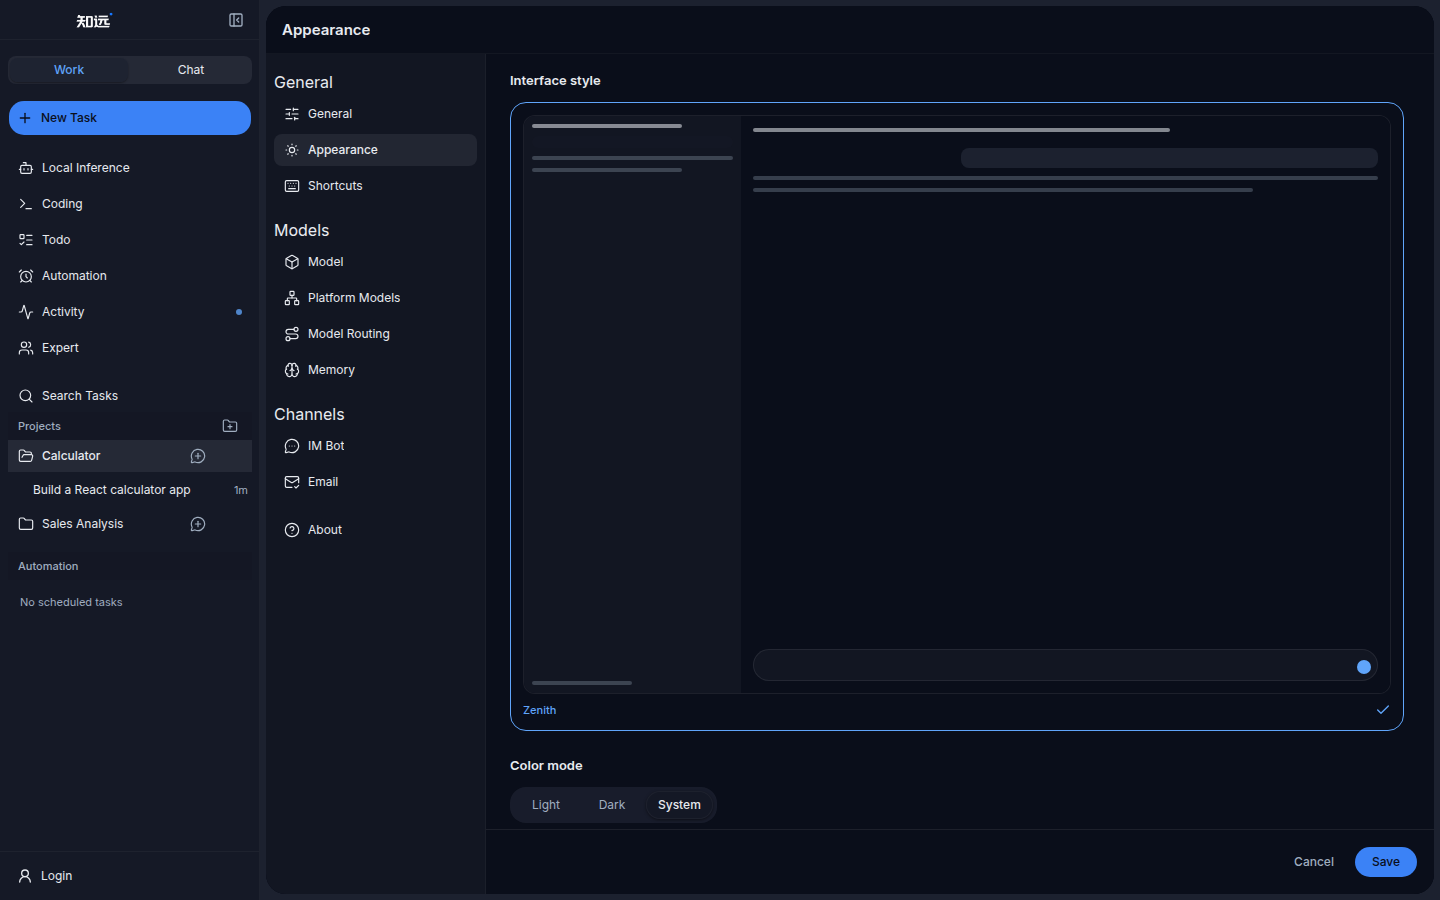
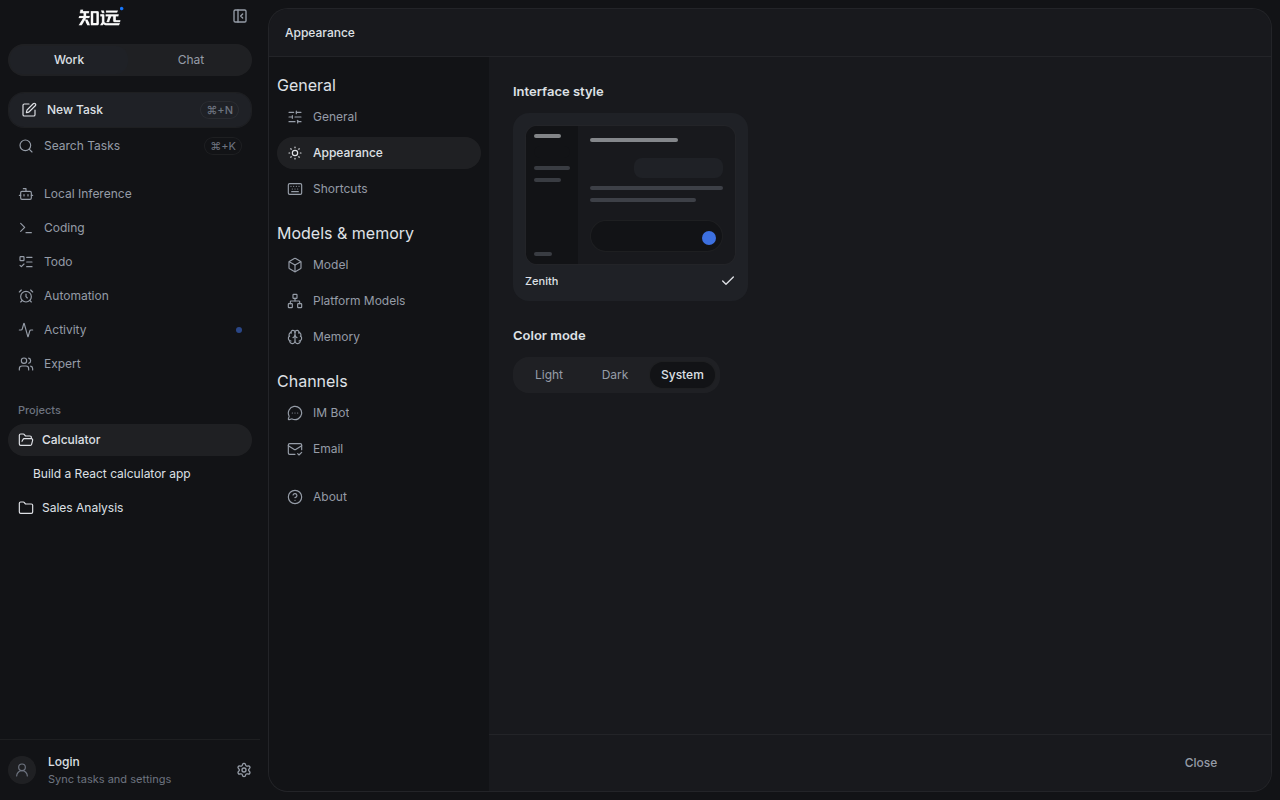
fix(docs): refresh screenshots and align technical documentation (#1304)

diff --git a/src/renderer/theme/README.md b/src/renderer/theme/README.md
@@ -1,6 +1,6 @@
 # Theme plugins
 
-The desktop theme is presentation data. App routes, React state, focus, IPC and persistence remain owned by existing components and services. `theme` selects light/dark/system; the optional `themeStyle` config property selects a registered style, falling back to `codex` if it is unavailable.
+The desktop theme is presentation data. App routes, React state, focus, IPC and persistence remain owned by existing components and services. `theme` selects light/dark/system; the optional `themeStyle` config property selects a registered style, falling back to `zenith` (`DEFAULT_THEME_PLUGIN_ID`) when the saved id is missing or removed.
 
 ## Add a style
 
@@ -132,46 +132,6 @@ Tabs list surfaces, trigger dimensions, typography, states, icon sizing and line
 
 The source inventories are heuristics, not a substitute for rendered verification. Remaining parent-fill dimensions, flex shrink resets, popup viewport bounds and indicator layout coordinates express relationships and stay in shared code. Theme data does not control events, focus order, hit testing, DOM structure or persistence.
 
+### Bundled Zenith plugin
 
-### 大明风华
-
-`themes/daming.ts` 注册纸白和墨夜两种外观。以纸白、朱红和墨色组织主界面，玉色、古铜色与青灰色承担状态和分类。仅页面标题使用本机宋体字体栈，正文与操作控件保持系统无衬线。主画布使用包内静态纸纹；墨夜不启用纸纹。背景、颜色和形状均属于主题定义，不提供独立设置。
-
-共享的 FluidTabs、Checkbox、Slider、Progress、Switch、RadioGroup 和 Toggle 通过固定 `theme-*` hooks 消费组件 recipe；页面标题使用 `theme-heading`。拖动位置、进度值和选中状态仍归共享组件管理。新增主题不能替换组件实现或引入业务判断。
-
-
-开关尺寸使用 `style-switch-*` 变量，组件通过元素测量和主题属性观察同步 Motion 坐标；`style-work-chat-thumb` 与 `primary-foreground` 独立。Codex 保留原尺寸与白色滑块，大明风华使用方圆形状。FluidTabs 的指示块跟随实际标签矩形，过渡曲线在 recipe 中定义。
-
-
-#### 覆盖与验收（2026-09-06）
-
-基础控件、展示控件、表单、通知、共享侧栏及业务组合外观均通过固定 hook 消费包内 recipe。`classic-scenes.ts` 管理问答选项、技能/专家头像框、表格与骨架屏等组合；头像图片和第三方品牌内容仍保持原样。旧局部覆盖已从调用点移到包内，交互状态与页面布局继续由共享组件管理。
-
-| 验收范围 | 结果与证据 |
-| --- | --- |
-| 四种外观往返切换 | 真实 React 控件浏览器夹具验证 Codex 浅/深、大明风华浅/深及切回；原节点、选择状态保留。 |
-| 开关、分段选项与选择控件 | 开关默认 34×20px；主题改为 44×26px、20px 滑块后测量同步；立即拖动、键盘、只读、禁用通过。指示块与标签矩形差小于 1px。 |
-| 展示、表单与组合 | 表格选中/悬停、末行边框、头像尺寸、字段禁用/错误去重/整卡选中、问答选项、本地访问开关、通知圆角、滚动区键盘焦点通过。 |
-| 共享侧栏 | 空/字符串 data-active 均识别；选中字重 500，常规/大号高度 32/48px，折叠恢复为 32×32px，操作按钮显隐正确。 |
-| 动效 | Spinner、Skeleton 和会话扫光由包内隔离 keyframe 提供；减少动态效果时停用。扫光渐变可定制，远程 URL 仍被契约拒绝。 |
-| 色板完整性 | 语义侧栏、图表、旧 amber/yellow/red 映射到包内角色；正文、次要文字、主要按钮、成功/警告/危险文字的指定表面对比度测试通过。 |
-| 实机页面 | 最新生产构建通过 Computer Use 检查纸白/墨夜模型市场、设置、搜索、会话，以及纸白专家、技能、自动化空状态和创建表单。 |
-| 实机功能 | 保存大明风华后免费模型回复 DAMINGOK；搜索 Return 跳转成功；已有草稿在保存切回 Codex 后保持原文。启动读取已保存的大明风华墨夜成功。 |
-| 自动检查 | Renderer/shared 176 个测试文件、886 项测试通过；lint、主题生成一致性/样式审计、TypeScript、生产构建和体积预算通过。启动图 1.60 MiB。 |
-
-扩展 JSX 控件调用点和交互表面审计均无剩余命中，但这些清单属于启发式证据。实机验收覆盖上表场景，不代表执行过所有 IPC、模型安装、外部渠道或导出格式。主题不修改这些业务流程；OS 原生窗口、用户文档、第三方预览与品牌原图不在重着色范围内。
-
-
-### 长安风物
-
-`themes/changan.ts` 提供绢白与夜阑两套外观，复用共享交互与完整组件 recipe。主操作使用孔雀青，辅助色为古金、玉色与赭红；卡片、弹层及输入区使用更圆润的轮廓，普通开关保持胶囊形。字号和操作尺寸保留共享基线。
-
-背景使用 `BackgroundTexture.Silk` 的静态经纬线绘制，浅色透明度 0.045、深色 0.025。它复用背景图层，不引入图片请求、动画或独立用户设置。预览卡片通过同一背景定义绘制，跟随当前明暗模式。新增包无需添加设置页业务分支。
-
-验收记录：Renderer/shared 177 个测试文件、891 项测试通过；lint、主题生成一致性、样式审计、生产构建和体积预算通过，启动图 1.61 MiB。真实 React 控件夹具验证六种外观往返切换、选择状态、开关尺寸与滑块对比度、组合边框、键盘焦点和减少动态效果。Computer Use 在隔离配置的 Electron 生产构建中检查三套主题预览、长安风物浅/深外观、保存后主界面、搜索弹层及结果跳转、已有会话内容。此次未重新执行模型安装或外部渠道流程。
-
-### 未央金石
-
-`themes/weiyang.ts` 注册玄金与石白两套完整外观，采用古金主操作、方中带圆的控件与宋体标题。`BackgroundTexture.Clouds` 是引擎提供的固定静态 SVG 云气纹，仅以主题定义的颜色和透明度绘制，不接受外部 SVG 或脚本。右上、左下两角延展，中央保留阅读留白，主画布与主题预览复用同一背景定义。
-
-验收记录：178 个 Renderer/shared 测试文件、895 项测试通过；lint、生成一致性、样式审计、生产构建与体积预算通过，启动图 1.61 MiB。Playwright 真实组件夹具验证八种外观往返切换、草稿与选择状态保留、开关拖动/键盘、组合边框、浮层和减少动态效果；外观设置验证四套预览、跟随系统、显式模式优先以及 390px 窄屏无横向溢出。Computer Use 在隔离 Electron 生产构建中检查玄金/石白主界面与模型市场、量化下拉浮层、保存主题后草稿保留，重新加载后外观设置保持。此次不包含模型安装、外部渠道或跨平台实机验收。
+`themes/plugins.ts` registers a single plugin, `zenith`, with `zenith-light` and `zenith-dark` appearances. Visual rules follow [DESIGN.md](../../../DESIGN.md) v4.0 Quiet Studio. Removed legacy theme ids resolve to Zenith through `resolveThemePlugin()`. Appearance settings screenshots live under `docs/theme-previews/`; regenerate with `bun run preview:doc-screenshots` after UI changes.

diff --git a/AGENTS.md b/AGENTS.md
@@ -14,6 +14,7 @@
 bun run electron:dev       # Vite + Electron 热重载（端口 5175 起自增）
 bun run web:preview        # 浏览器预览（端口 5176，无需 Electron）
 bun run web:preview:check  # 浅色/深色走查主要界面，console error 即失败
+bun run preview:doc-screenshots  # 1280×800 文档截图到 docs/theme-previews/
 bun run build              # 生产构建（TS + Vite）
 bun run lint               # oxlint，含 theme:check / theme:audit
 bun run format             # oxfmt；提交前 bun run format:check
@@ -35,7 +36,7 @@ bun run rebuild:electron-native   # 原生模块依赖变更后
 - 会话、流式回复、设置、Skills、MCP、自动化、本地推理和 IM 的数据在 `browserMock/interactive.ts` 与 `browserMock/fixtures/`。改了 preload 契约后跑 `bun run web:preview:codegen`，并提交 `src/renderer/browserMock/generated/`。`bun run web:preview:codegen:check` 会在生成结果过期时失败。
 - `bun run web:preview:check`（先 `bunx playwright install chromium`）在 headless Chromium 中跑 Playwright 交互测试与 warn-only 的 axe 抽检；mock 仍支持 URL 参数 `previewScenario` / `previewEdition` / `previewSkipBoot` 供本地走查。`console.error` 与 `pageerror` 会让检查失败。Preload 契约：`bun run web:preview:contract`；生成面校验：`bun run web:preview:codegen:check`。这些检查由发布前 `release-preflight.yml` 的 `browser-preview` job 统一执行，日常 PR 不自动启动浏览器。
 
-Node >=24 <25，Bun >=1.3。包管理与脚本一律用 Bun（`bun install`、`bun run <script>`、`bun.lock`），不使用 npm。Windows 构建需 PortableGit（见 README.md）。
+Node >=24 <25，Bun >=1.4 <1.5（与 `package.json` 的 `packageManager` 一致）。包管理与脚本一律用 Bun（`bun install`、`bun run <script>`、`bun.lock`），不使用 npm。Windows 构建需 PortableGit（见 README.md）。桌面壳 Electron **44.x**；Agent 执行栈 `@earendil-works/pi-*` **1.4.0**（见 `package.json`）。
 
 ## 产品与品牌
 
@@ -122,7 +123,7 @@ Node >=24 <25，Bun >=1.3。包管理与脚本一律用 Bun（`bun install`、`b
 
 ### 主界面参考标杆（2026-10-20，DESIGN.md v4.0）
 
-用户审阅 v3 主界面后授权废止 Zenith 的毛玻璃、渐变主按钮、外发光、悬停上浮和放大 30% 字阶，确立 v4.0 Quiet Studio 标准。参考实现位于 [docs/design/reference/index.html](docs/design/reference/index.html)（含 `tokens.css`、`shell.css`、`stage.css`、`main.js`）；代码改造完成前，旧基准截图（[浅色](docs/theme-previews/main-interface-2026-10-05-light.png)、[深色](docs/theme-previews/main-interface-2026-10-05-dark.png)）保留供回归参考，待 v4 实现通过用户验收后再替换。
+用户审阅 v3 主界面后授权废止 Zenith 的毛玻璃、渐变主按钮、外发光、悬停上浮和放大 30% 字阶，确立 v4.0 Quiet Studio 标准。参考实现位于 [docs/design/reference/index.html](docs/design/reference/index.html)（含 `tokens.css`、`shell.css`、`stage.css`、`main.js`）。主界面浏览器预览基准（1280×800，2026-10-22）：[浅色](docs/theme-previews/main-interface-2026-10-22-light.png)、[深色](docs/theme-previews/main-interface-2026-10-22-dark.png)。文档截图用 `bun run preview:doc-screenshots` 再生。
 
 | 特征 | v4 做法 | 代码入口 |
 | --- | --- | --- |

diff --git a/CONTRIBUTING.md b/CONTRIBUTING.md
@@ -19,7 +19,9 @@ Please read this guide and [`AGENTS.md`](AGENTS.md) before making a code change.
 
 - Git
 - Node.js `>=24 <25`
-- Bun `>=1.4 <1.5`
+- Bun `>=1.4 <1.5` (matches `package.json` `packageManager`)
+- Electron **44.x** (desktop shell; see `devDependencies.electron` in `package.json`)
+- Pi agent stack **`@earendil-works/pi-*` 1.4.0** (execution kernel consumed by `piRuntimeAdapter.ts`)
 - Go: only for packaging. The exact SDK version pinned in `resources/magpie/upstream.json` (currently Go 1.26.8) is required by `bun run magpie:build`
 
 Windows release builds also require PortableGit. Native dependencies such as `better-sqlite3` may require Python and a supported C/C++ build toolchain when a prebuilt binary is unavailable.
@@ -38,7 +40,7 @@ For day-to-day renderer UI iteration, start the browser preview and use its Vite
 bun run web:preview
 ```
 
-The preview uses typed fixture data in place of the Electron preload bridge. Inspect layouts, interactions, themes, responsive states, and console output in the browser. Run `bun run web:preview:check` for a light/dark walkthrough and screenshots in `.github/pr-assets/browser-preview/` (install Playwright Chromium first with `bunx playwright install chromium`). See [README.md](README.md#browser-preview-mode) for its scope.
+The preview uses typed fixture data in place of the Electron preload bridge. Inspect layouts, interactions, themes, responsive states, and console output in the browser. Run `bun run web:preview:check` for a light/dark walkthrough (install Playwright Chromium first with `bunx playwright install chromium`); release preflight runs the same Playwright suite. Regenerate committed documentation screenshots under `docs/theme-previews/` with `bun run preview:doc-screenshots`. See [README.md](README.md#browser-preview-mode) for scope.
 
 Start Electron when verifying real IPC, native-window or system behavior, and affected end-to-end flows:
 

diff --git a/README.md b/README.md
@@ -192,7 +192,7 @@ Preview the renderer in a plain browser without Electron:
 bun run web:preview
 ```
 
-This starts a Vite dev server on port 5176 with a typed mock of the Electron preload API. Use it as the fast path for day-to-day renderer UI changes: hot reload, browser developer tools, responsive layouts, themes, and interactions. `bun run web:preview:check` starts that server, walks the main screens in light and dark (sessions, a streamed reply, every settings panel, skills, MCP, automation, local inference, IM, and dialogs), fails on any console error, and writes screenshots to `.github/pr-assets/browser-preview/`. The mock covers the full preload contract: unimplemented calls return a typed default and warn once.
+This starts a Vite dev server on port 5176 with a typed mock of the Electron preload API. Use it as the fast path for day-to-day renderer UI changes: hot reload, browser developer tools, responsive layouts, themes, and interactions. `bun run web:preview:check` runs Playwright against that server in light and dark (sessions, a streamed reply, every settings panel, skills, MCP, automation, local inference, IM, and dialogs) and fails on console errors. `bun run preview:doc-screenshots` writes 1280×800 documentation PNGs to `docs/theme-previews/` (main interface, appearance, platform models, local inference). The mock covers the full preload contract: unimplemented calls return a typed default and warn once.
 
 The mock is only active in browser mode (`import.meta.env.DEV` + no `window.electron`). Production builds and Electron runs use the real preload bridge. Verify affected IPC, system, native-window, and end-to-end behavior with `bun run electron:dev`; browser preview does not exercise those integrations. See [CONTRIBUTING.md](CONTRIBUTING.md) for the UI workflow.
 

diff --git a/README_zh.md b/README_zh.md
@@ -176,6 +176,16 @@ bun run llamacpp:runtime:download
 
 </details>
 
+## 浏览器预览模式
+
+无需 Electron 即可在浏览器中预览渲染器：
+
+```bash
+bun run web:preview
+```
+
+在端口 5176 启动 Vite，并用类型化的 preload mock 替代真实 IPC。日常改 UI 时优先用它做热更新、主题与布局检查。`bun run web:preview:check` 会在浅色/深色下用 Playwright 走查主要界面，出现控制台错误即失败。`bun run preview:doc-screenshots` 会生成 1280×800 的文档截图到 `docs/theme-previews/`（主界面、外观、平台模型、本地推理）。mock 仅在浏览器开发模式启用；生产构建与 Electron 运行时使用真实 preload。涉及 IPC、系统能力或完整业务流程时，请用 `bun run electron:dev` 复验。详见 [CONTRIBUTING.md](CONTRIBUTING.md)。
+
 ## 参与项目
 
 - [报告问题](https://github.com/rongxinzy/RongxinAI/issues/new?template=bug_report.yml)：附上系统、版本、复现步骤和相关日志。
